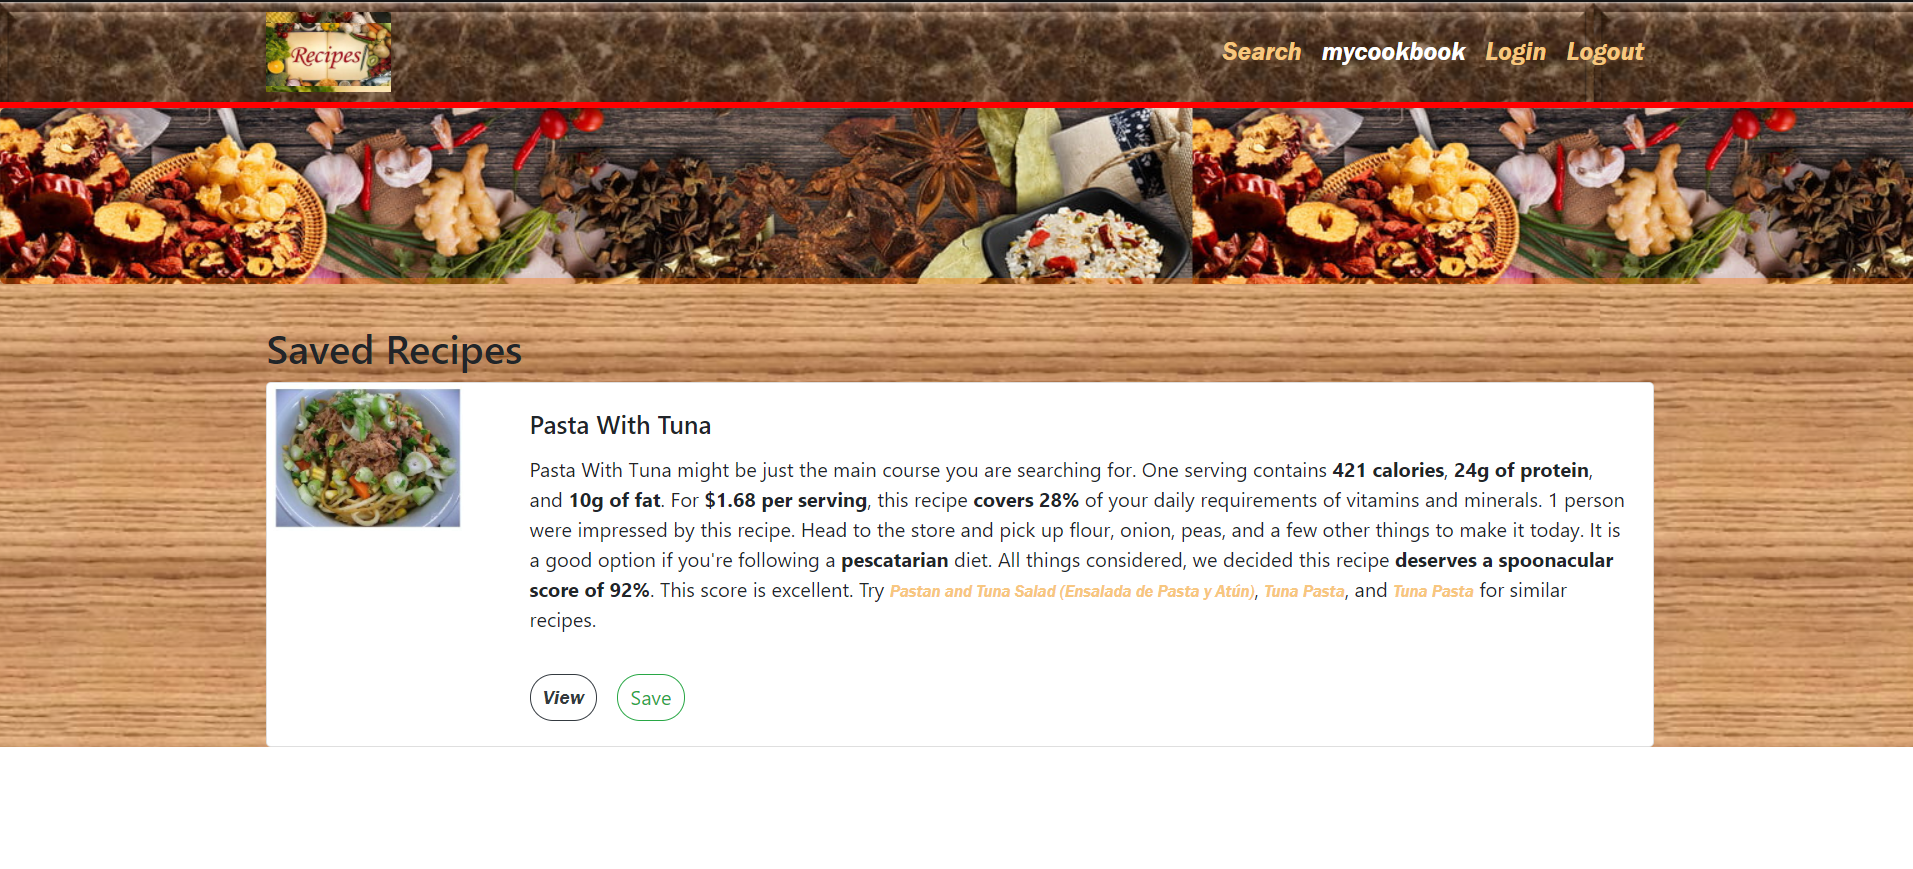
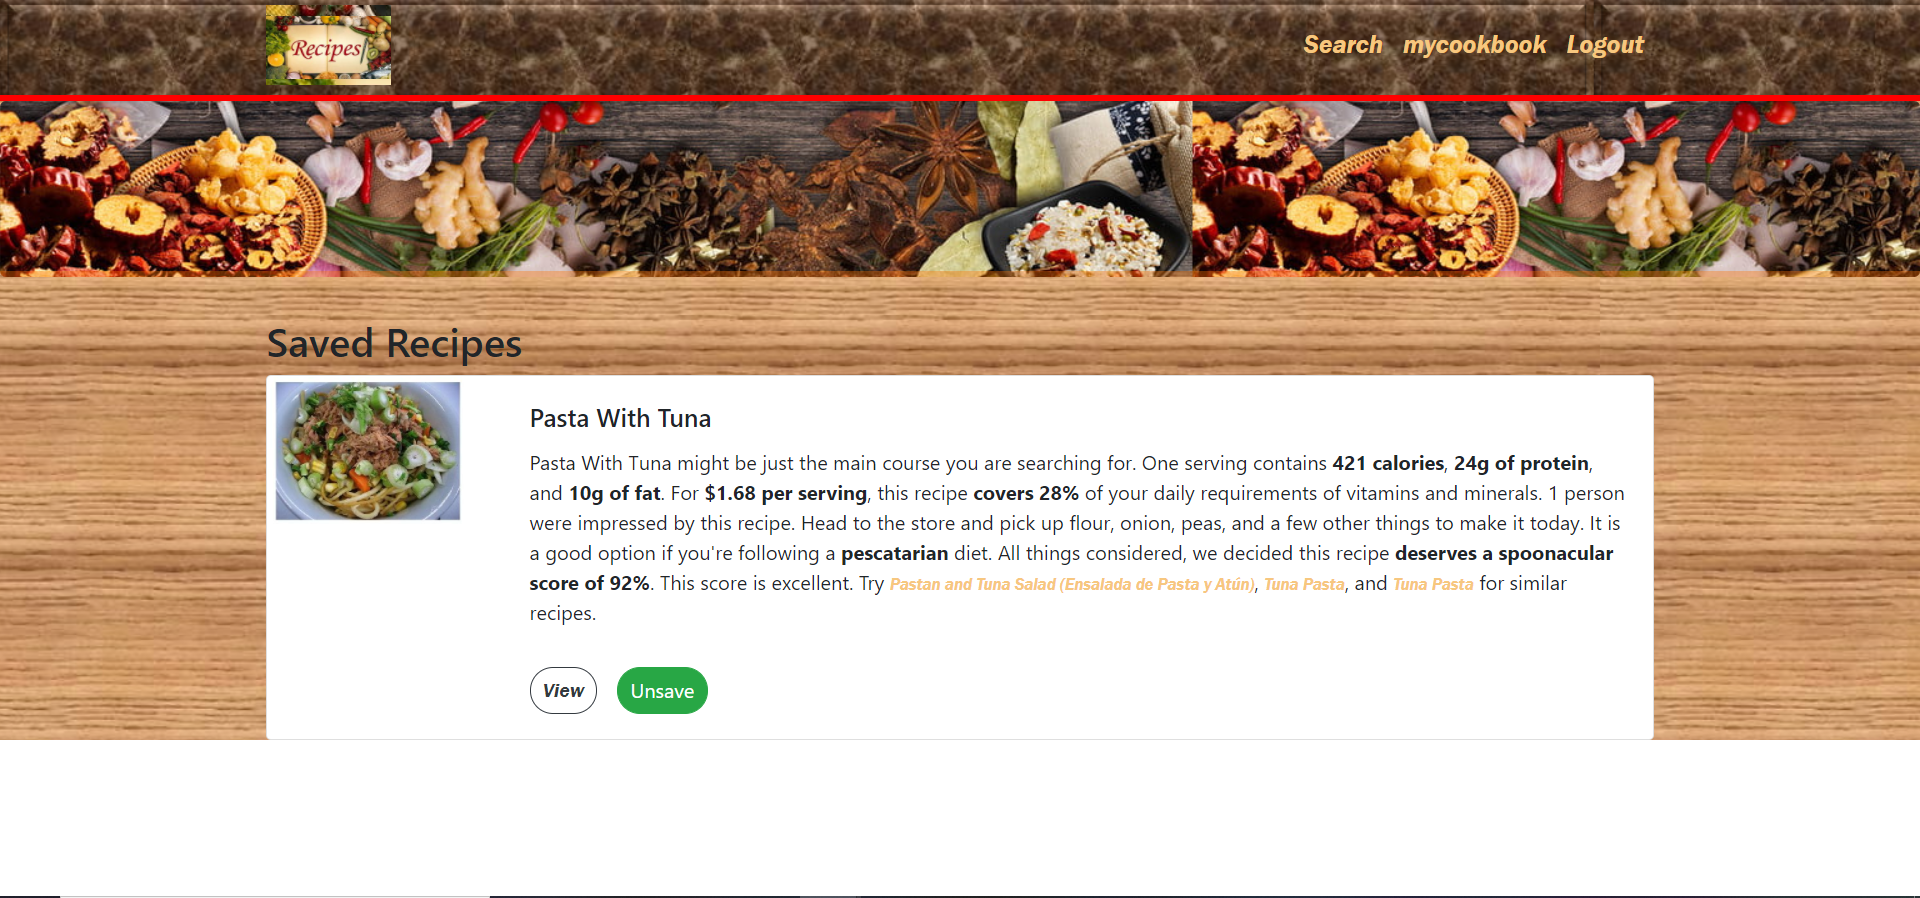
Adjusted pictures to reflect new nav bar

diff --git a/README.md b/README.md
@@ -76,4 +76,6 @@ Santosh Malaki - Champion
 
 ![Click on Save](./pictures/search_page_results_save.png)
 
+![Blank Saved Recipes](./pictures/my_saved_recipes_blank.png)
+
 ![Saved Recipes](./pictures/my_saved_recipes.png)
